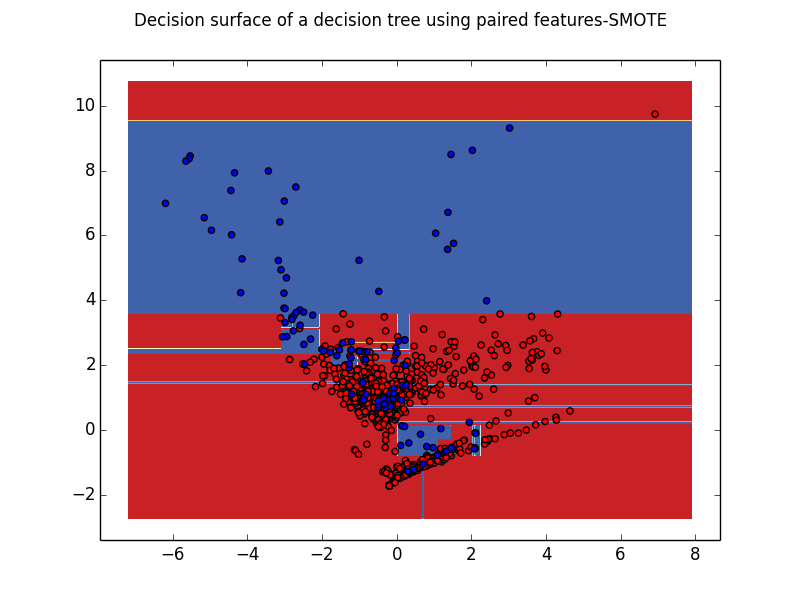
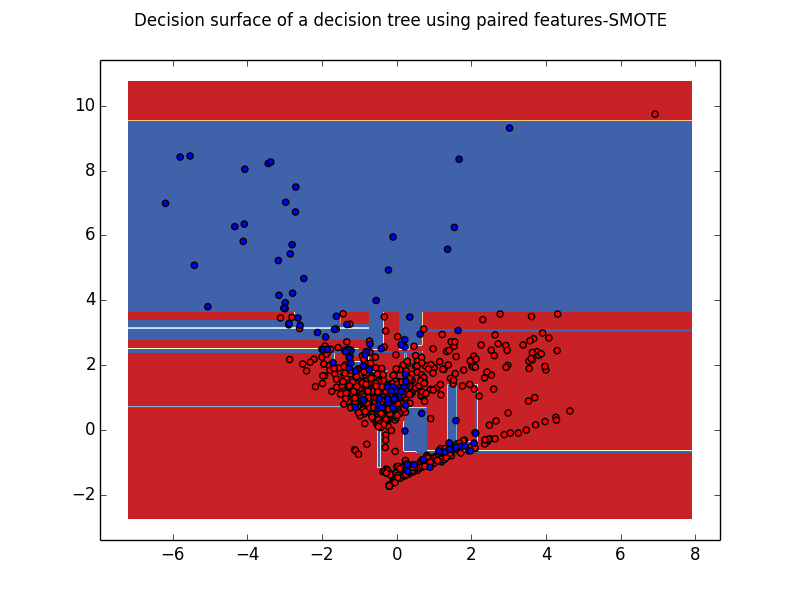
under-sampling+smote

diff --git a/code/smote.py b/code/smote.py
@@ -47,6 +47,8 @@ def plot(clf, X, Y, id):
         method = 'Over-Sampling with Replacement'
     elif id is 'c':
         method = 'SMOTE'
+    elif id is 'd':
+        method = 'Under-sampling + SMOTE'
 
     plt.suptitle("Decision surface of a decision tree using paired features-"+method)
     # plt.legend(loc='lower right', borderpad=0, handletextpad=0)
@@ -64,52 +66,52 @@ def overReplacement(data, percent):
 
     unique, counts = np.unique(data[:, [data.shape[1]-1]], return_counts=True)
     freq = dict(zip(unique, counts))
-    nNeg = freq[1.0]
-    nPos = freq[0.0]
+    nPositive = freq[1.0]
+    nNegative = freq[0.0]
 
     nindex = 0
-    # print 'Neg: ', nNeg, ' Pos: ', nPos
-    negData = np.zeros((nNeg, data.shape[1]))
+    # print '+ve Class: ', nPositive, ' -ve Class: ', nNegative
+    posData = np.zeros((nPositive, data.shape[1]))
     for i in range(data.shape[0]):
         if data[i, [data.shape[1]-1]] == 1.0:
             # print i
-            negData[nindex, :] = data[i, :]
+            posData[nindex, :] = data[i, :]
             nindex+=1
 
-    # print negData.shape
+    # print posData.shape
 
 
     nnindex = 0
     sz = data.shape[0]
-    while nnindex < (N-1) * negData.shape[0]:
-        i = np.random.randint(negData.shape[0])
+    while nnindex < (N-1) * posData.shape[0]:
+        i = np.random.randint(posData.shape[0])
 
         temp = np.empty((sz+1, data.shape[1]), data.dtype)
         temp[:sz, :] = data
-        temp[data.shape[0], :] = negData[i, :]
+        temp[data.shape[0], :] = posData[i, :]
         nnindex+=1
         sz+=1
         data = temp
 
     return data
 
-def populate(negData, N, i, nnarray):
+def populate(posData, N, i, nnarray):
 
-    # print negData.shape
-    synthetic = np.empty((N, negData.shape[1]), negData.dtype)
+    # print posData.shape
+    synthetic = np.empty((N, posData.shape[1]), posData.dtype)
     newindex = 0
     while N != 0:
         idx = np.random.randint(nnarray.shape[1])
-        for attr in range(negData.shape[1]):
+        for attr in range(posData.shape[1]):
             # print attr
             if attr < data.shape[1]-1:
-                dif = negData[nnarray[i, idx], attr] - negData[i, attr]
+                dif = posData[nnarray[i, idx], attr] - posData[i, attr]
                 # print 'dif:', dif
                 gap = np.random.random(1)
                 # print 'gap:', gap
-                synthetic[newindex, attr] = negData[i, attr] + gap * dif
+                synthetic[newindex, attr] = posData[i, attr] + gap * dif
             else:
-                synthetic[newindex, attr] = negData[i, attr]
+                synthetic[newindex, attr] = posData[i, attr]
         newindex+=1
         N-=1
 
@@ -119,34 +121,35 @@ def smote(data, percent, k):
     print 'SMOTE'
     unique, counts = np.unique(data[:, [data.shape[1]-1]], return_counts=True)
     freq = dict(zip(unique, counts))
-    nNeg = freq[1.0]
-    nPos = freq[0.0]
+    nPositive = freq[1.0]
+    nNegative = freq[0.0]
 
     if percent < 100:
-        nNeg = (percent / 100 )* nNeg
+        nPositive = (percent / 100 )* nPositive
         N = 100
 
     N = (int)(percent/100)
 
+
+    # print '+ve Class: ', nPositive, ' -ve Class: ', nNegative
+    posData = np.zeros((nPositive, data.shape[1]))
     nindex = 0
-    # print 'Neg: ', nNeg, ' Pos: ', nPos
-    negData = np.zeros((nNeg, data.shape[1]))
     for i in range(data.shape[0]):
         if data[i, [data.shape[1]-1]] == 1.0:
             # print i
-            negData[nindex, :] = data[i, :]
+            posData[nindex, :] = data[i, :]
             nindex += 1
 
-    # print negData.shape
+    # print posData.shape
 
     sz = data.shape[0]
-    nnarray = np.empty((nNeg, k), int)
-    for i in range(nNeg):
-        nbrs = NearestNeighbors(n_neighbors=k+1, algorithm='ball_tree').fit(negData[:, [1, 0]])
-        distances, indices = nbrs.kneighbors(negData[:, [1, 0]])
+    nnarray = np.empty((nPositive, k), int)
+    for i in range(nPositive):
+        nbrs = NearestNeighbors(n_neighbors=k+1, algorithm='ball_tree').fit(posData[:, [1, 0]])
+        distances, indices = nbrs.kneighbors(posData[:, [1, 0]])
         nnarray[i, :] = indices[i, 1:]
 
-        newRow = populate(negData, N-1, i, nnarray)
+        newRow = populate(posData, N-1, i, nnarray)
 
         temp = np.empty((sz + N-1, data.shape[1]), data.dtype)
         temp[:sz, :] = data
@@ -158,6 +161,46 @@ def smote(data, percent, k):
 
     return data
 
+def underSMOTE(data, percent):
+    print 'Under-sampling + SMOTE'
+    unique, counts = np.unique(data[:, [data.shape[1] - 1]], return_counts=True)
+    freq = dict(zip(unique, counts))
+    nPositive = freq[1.0]
+    nNegative = freq[0.0]
+
+    if percent < 100:
+        nPositive = (percent / 100) * nPositive
+        N = 100
+
+    N = (int)(percent / 100)
+    
+    targetNegative = (int) (nPositive / N)
+
+    negData = np.zeros((nNegative, data.shape[1]))
+    nindex = 0
+    for i in range(data.shape[0]):
+        if data[i, [data.shape[1] - 1]] == 0.0:
+            # print i
+            negData[nindex, :] = data[i, :]
+            nindex += 1
+
+    posData = np.zeros((nPositive, data.shape[1]))
+    nindex = 0
+    for i in range(data.shape[0]):
+        if data[i, [data.shape[1] - 1]] == 1.0:
+            # print i
+            posData[nindex, :] = data[i, :]
+            nindex += 1
+
+    np.random.shuffle(negData)
+
+    dat = np.empty((targetNegative+nPositive, data.shape[1]), dtype = data.dtype)
+    dat[:targetNegative+1, :] = negData[:targetNegative+1, :]
+    dat[targetNegative:, :] = posData
+
+    np.random.shuffle(dat)
+
+    return dat
 
 
 if __name__=="__main__":
@@ -195,36 +238,32 @@ if __name__=="__main__":
     plot(clfNormal, X, Y, 'a')
 
     # Over-sampling with replacement
-
     dataA = overReplacement(data, 500)
-    # np.random.shuffle(dataA)
-    # print dataA.shape
+
     X = dataA[:, [1, 0]]
     Y = dataA[:, [data.shape[1]-1]]
 
     unique, counts = np.unique(dataA[:, [dataA.shape[1]-1]], return_counts=True)
     freq = dict(zip(unique, counts))
-    nNeg = freq[1.0]
-    nPos = freq[0.0]
-    print 'Neg: ', nNeg, ' Pos: ', nPos
+    nPositive = freq[1.0]
+    nNegative = freq[0.0]
+    print '+ve Class: ', nPositive, ' -ve Class: ', nNegative
 
     clfReplace = DecisionTreeClassifier()
     clfReplace = clfReplace.fit(X, Y)
     plot(clfReplace, X, Y, 'b')
 
     # SMOTE
-
     dataB = smote(data, 500, 5)
-    # np.random.shuffle(dataB)
-    # print dataA.shape
+
     X = dataB[:, [1, 0]]
     Y = dataB[:, [data.shape[1]-1]]
 
     unique, counts = np.unique(dataB[:, [data.shape[1]-1]], return_counts=True)
     freq = dict(zip(unique, counts))
-    nNeg = freq[1.0]
-    nPos = freq[0.0]
-    print 'Neg: ', nNeg, ' Pos: ', nPos
+    nPositive = freq[1.0]
+    nNegative = freq[0.0]
+    print '+ve Class: ', nPositive, ' -ve Class: ', nNegative
 
     clfSmote = DecisionTreeClassifier()
     clfSmote = clfReplace.fit(X, Y)
@@ -232,6 +271,22 @@ if __name__=="__main__":
 
 
     # Under-sampling and SMOTE
+
+    dataC = smote(data, 500, 5)
+    dataC = underSMOTE(dataC, 200)
+
+    X = dataC[:, [1, 0]]
+    Y = dataC[:, [data.shape[1] - 1]]
+
+    unique, counts = np.unique(dataC[:, [data.shape[1] - 1]], return_counts=True)
+    freq = dict(zip(unique, counts))
+    nPositive = freq[1.0]
+    nNegative = freq[0.0]
+    print '+ve Class: ', nPositive, ' -ve Class: ', nNegative
+
+    clfUSmote = DecisionTreeClassifier()
+    clfUSmote = clfReplace.fit(X, Y)
+    plot(clfUSmote, X, Y, 'd')
 
 
 
